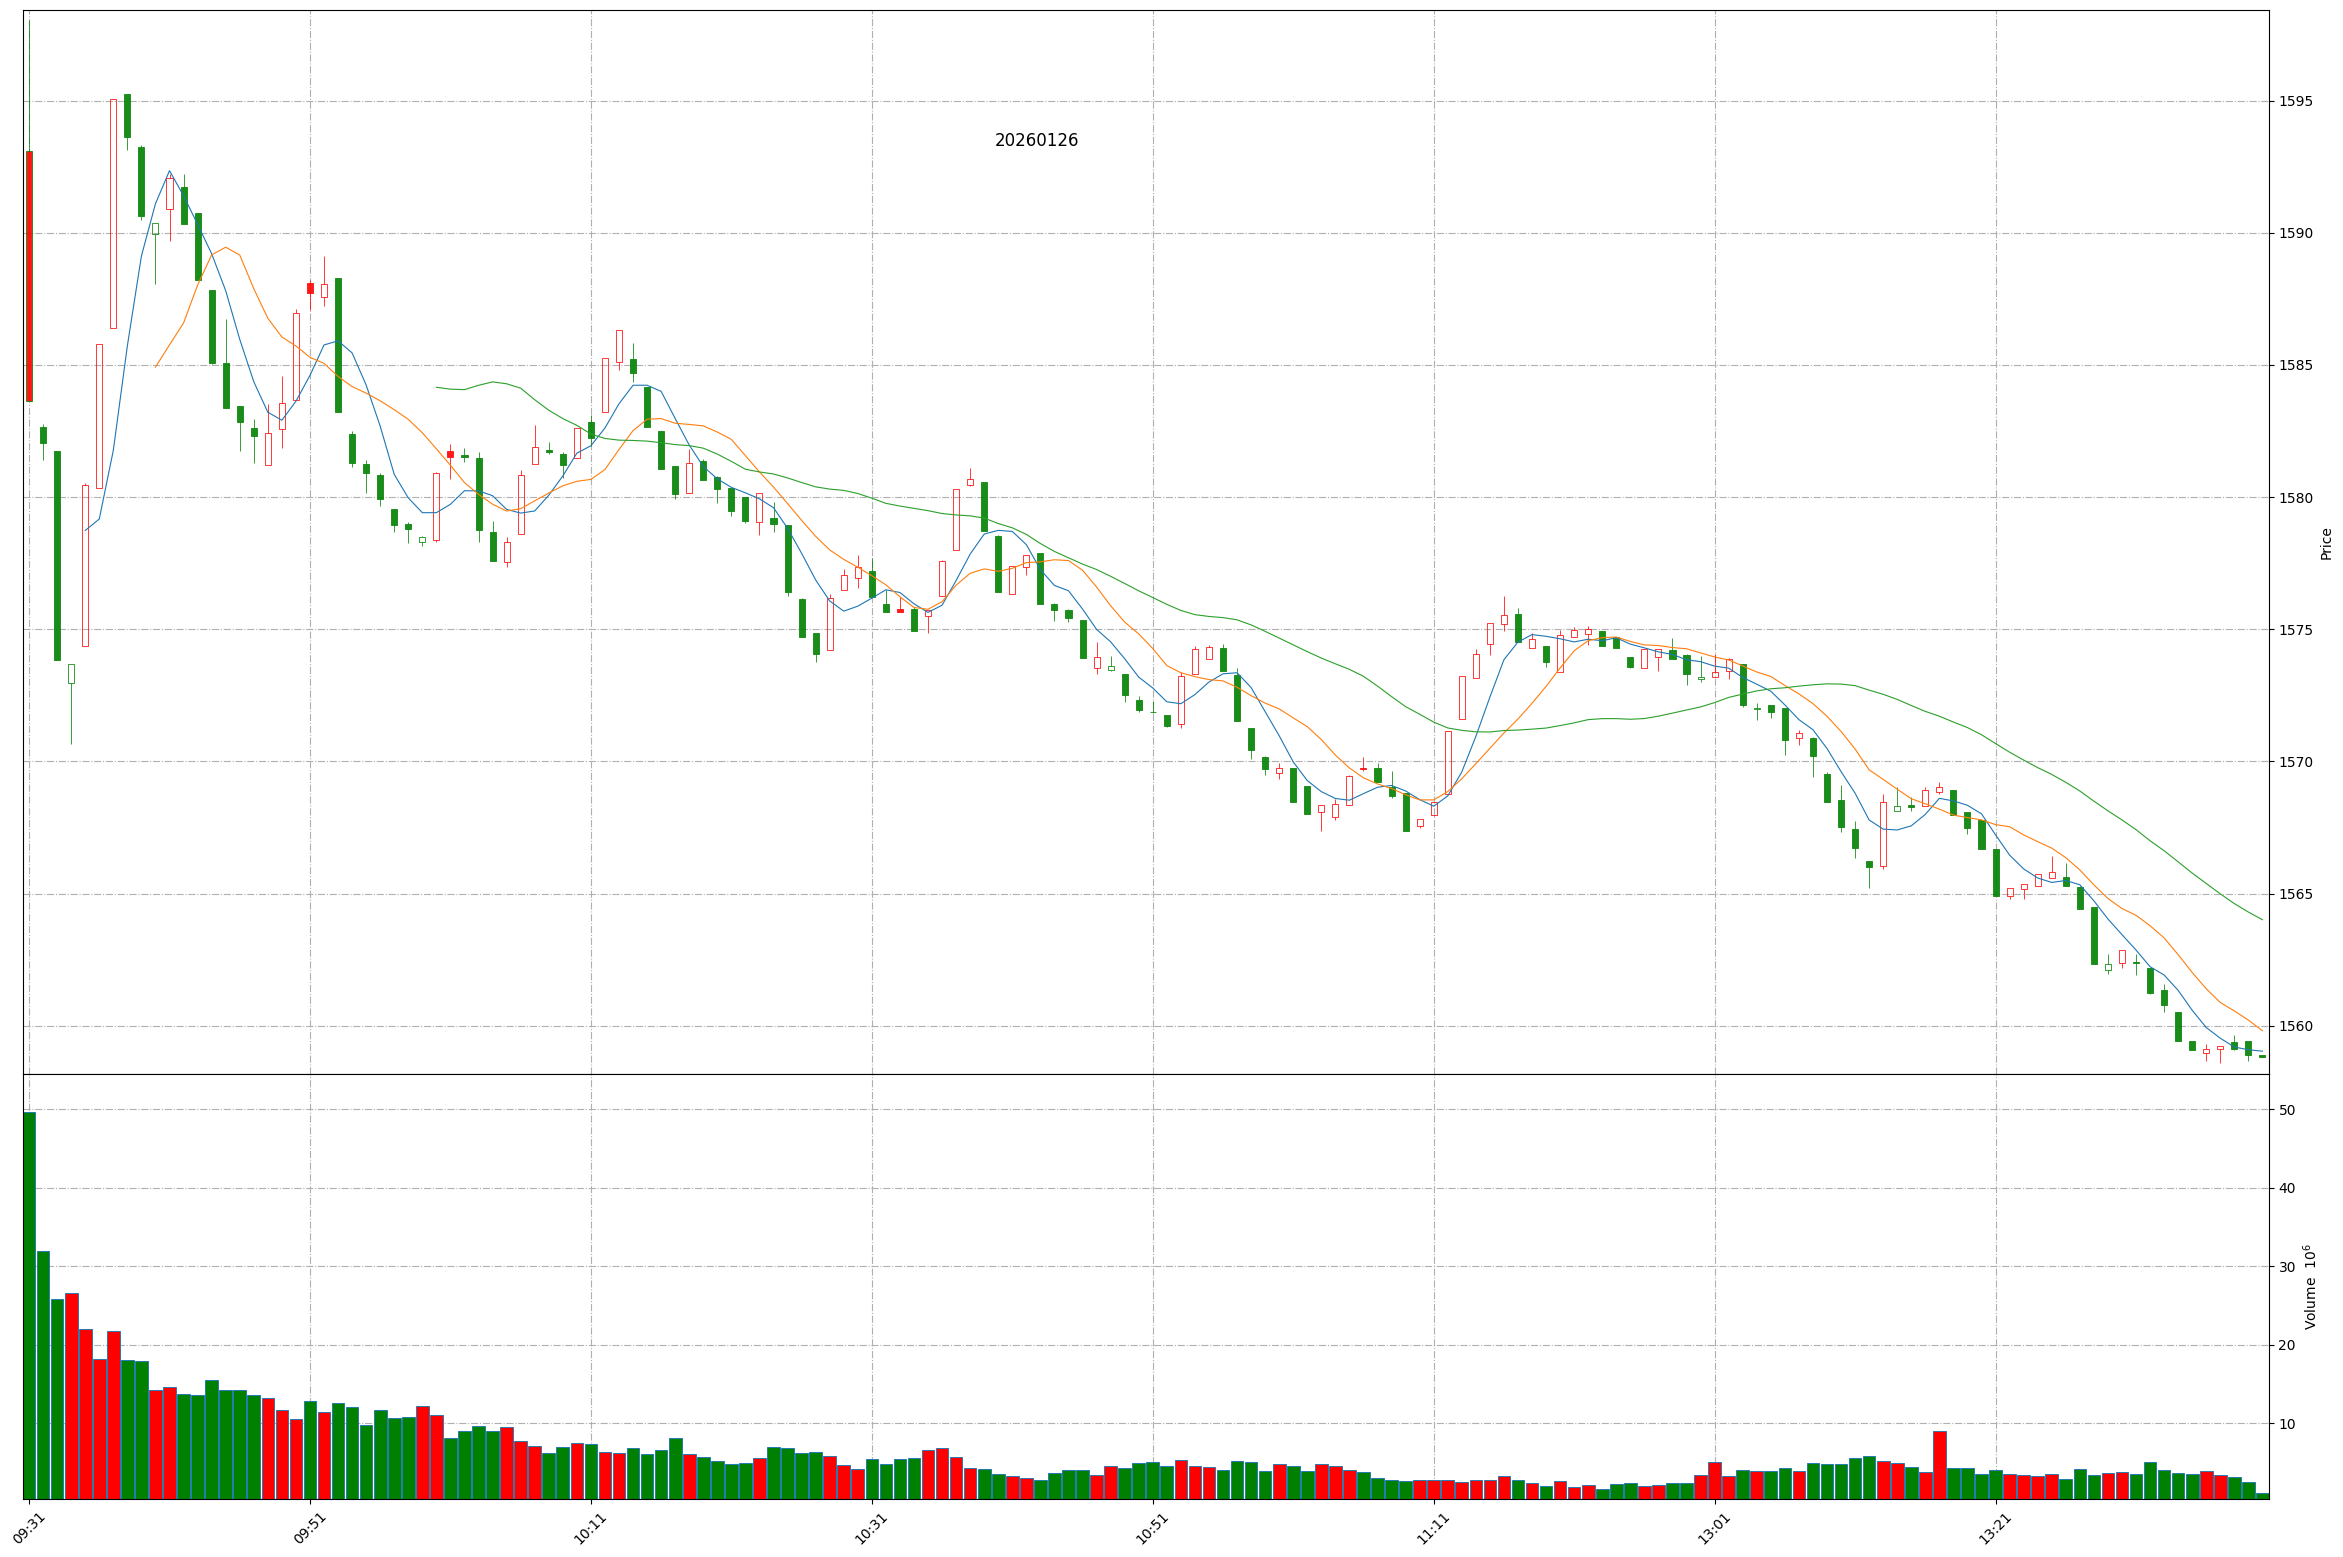
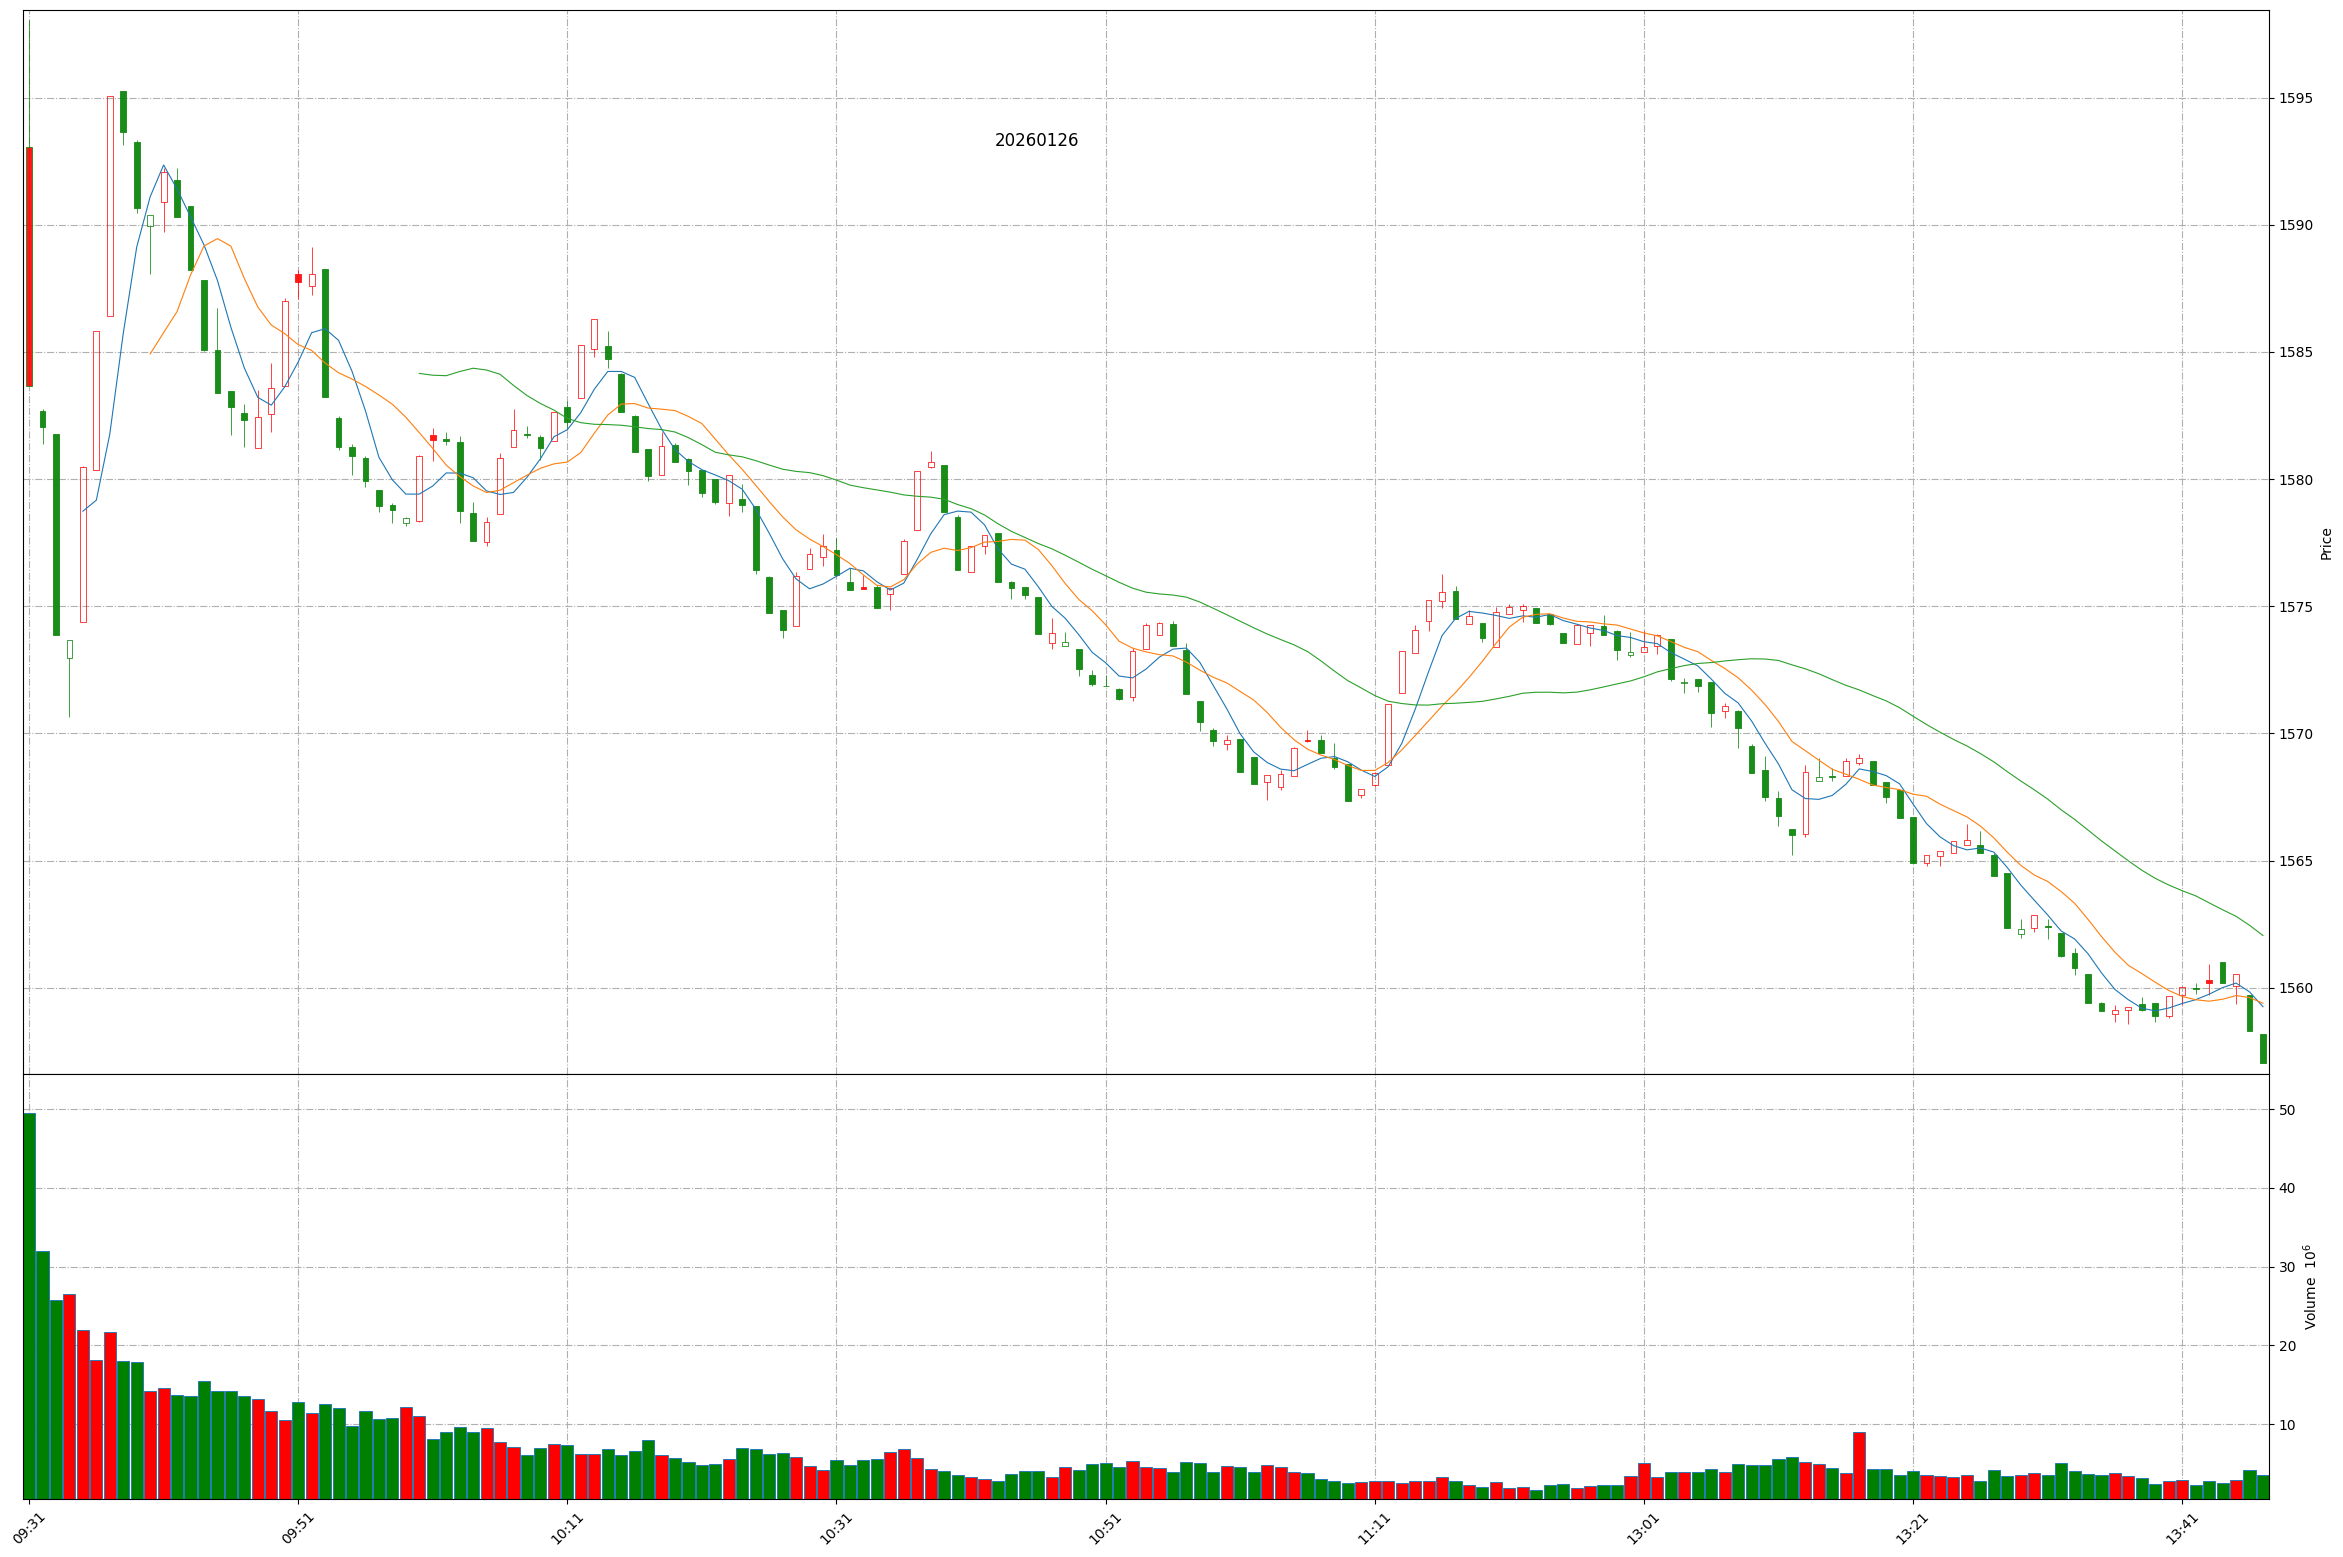
Github action update at 2026-01-26 13:46:49.

Changed region(s): [[0.0312, 0.0617, 0.9659, 0.6782], [0.0312, 0.8324, 0.9659, 0.9865], [0.9659, 0.2158, 0.997, 0.2466]]

diff --git a/README.md b/README.md
@@ -1,11 +1,11 @@
 
 # Daily-A-share-market-quotes 每日 A 股指数（5min 更新）- 20260126
 
-### 上证指数 20260126 13:39
+### 上证指数 20260126 13:46
 ![](./fig/2026/1/20260126-sh000001.png)
 
-### 深证成指 20260126 13:39
+### 深证成指 20260126 13:46
 ![](./fig/2026/1/20260126-sz399001.png)
 
-### 北证50 20260126 13:39
+### 北证50 20260126 13:46
 ![](./fig/2026/1/20260126-bj899050.png)
